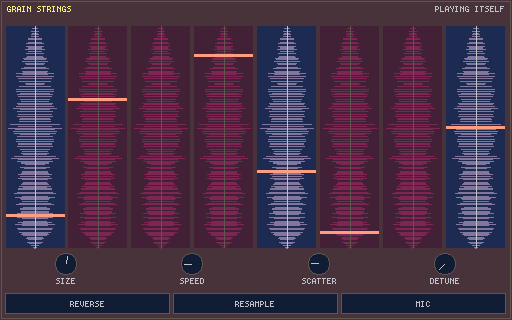
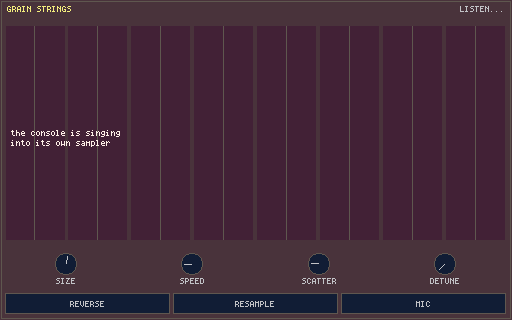
grainstrings: dead band above the knobs, self-play returns after 5 s idle
A knob click that missed by a pixel landed on a string and killed the
self-play chord. Strings now stop 10 px above the knobs, and the demo
chord comes back after 5 s with no string held.

diff --git a/tools/carts/grainstrings.c b/tools/carts/grainstrings.c
@@ -139,7 +139,9 @@ static void relayout(void) {
 }
 static Box string_box(int c) {
     float gap = 3.0f, w = (z_str.w - gap * (NCOL + 1)) / NCOL;
-    return box(z_str.x + gap + c * (w + gap), z_str.y + 2, w, z_str.h - 4);
+    // the bottom 10 px are a DEAD BAND above the knobs: a knob click that missed by a pixel used to land on a
+    // string, and touching a string stops the self-play, so the whole chord vanished (a session recording, 2026-11-20)
+    return box(z_str.x + gap + c * (w + gap), z_str.y + 2, w, z_str.h - 12);
 }
 static int string_at(int x, int y, float *p) {
     for (int c = 0; c < NCOL; c++) {
@@ -152,11 +154,19 @@ static float y_pos(int c, int y) { Box b = string_box(c); return pos_of(1.0f - (
 
 // ── the self-play: once the sound is ready, hold a slow-moving frozen chord until someone touches it ──
 static bool demo = true;
+static int  idle_frames;       // frames with no string held: the self-play comes back after DEMO_IDLE
+#define DEMO_IDLE 300          // 5 s
 static int  demo_frames, demo_h[3] = { -1, -1, -1 };
 static const signed char DCH[4][3] = { { 2, 4, 6 }, { 1, 3, 5 }, { 0, 4, 7 }, { 2, 5, 6 } };
 static void demo_stop_notes(void) { for (int i = 0; i < 3; i++) if (demo_h[i] >= 0) { note_off(demo_h[i]); demo_h[i] = -1; } }
 static void run_demo(void) {
-    if (!demo || src != SRC_READY) return;
+    if (src != SRC_READY) return;
+    if (!demo) {                                     // nobody is playing: after a while, play itself again
+        bool held = false; for (int c = 0; c < NCOL; c++) held |= col_h[c] >= 0;
+        idle_frames = held ? 0 : idle_frames + 1;
+        if (idle_frames < DEMO_IDLE) return;
+        demo = true; demo_frames = 0;
+    }
     int f = demo_frames++, k = (f / 150) % 4;
     if (f % 150 == 0) {
         demo_stop_notes();
@@ -169,7 +179,7 @@ static void run_demo(void) {
     for (int i = 0; i < 3; i++) if (demo_h[i] >= 0 && f % 6 == 0)      // drift up the sound, slowly
         note_harmonics(demo_h[i], pos_of(0.15f + 0.2f * i + (f % 150) * 0.002f));
 }
-static void stop_demo(void) { if (demo) { demo = false; demo_stop_notes(); } }
+static void stop_demo(void) { idle_frames = 0; if (demo) { demo = false; demo_stop_notes(); } }
 
 static const char KEYS[NCOL] = { 'A', 'S', 'D', 'F', 'G', 'H', 'J', 'K' };
 
